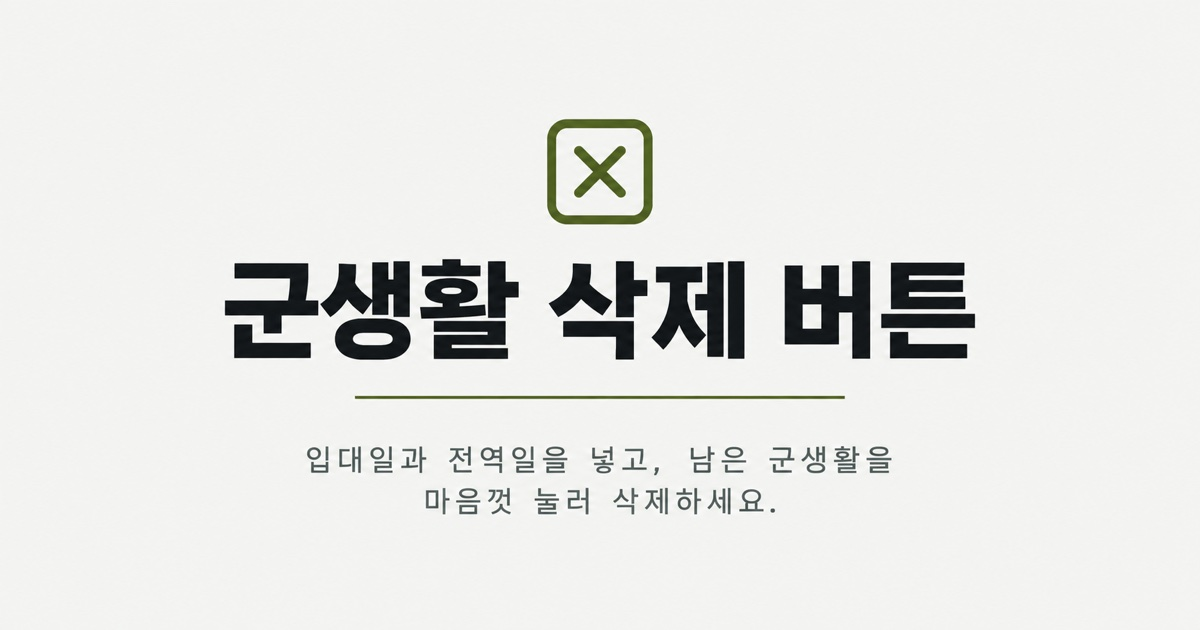
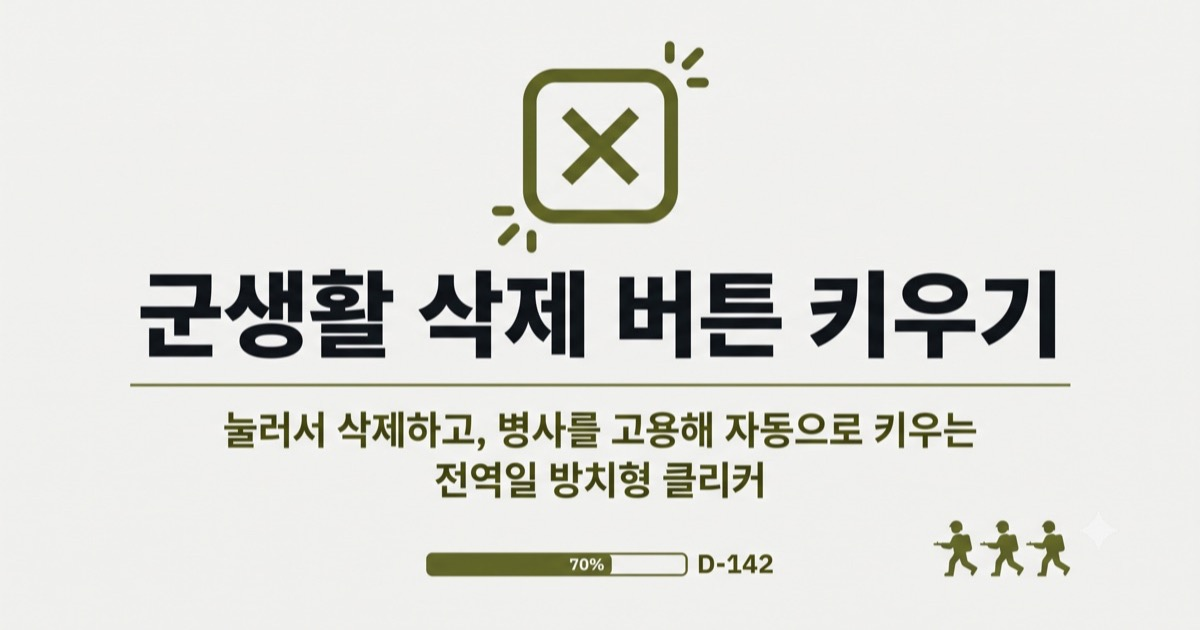
키우기로 컨셉 추가

diff --git a/index.html b/index.html
@@ -3,8 +3,8 @@
 <head>
 <meta charset="UTF-8">
 <meta name="viewport" content="width=device-width, initial-scale=1, interactive-widget=resizes-content">
-<title>군생활 삭제 버튼 — 전역일 계산기</title>
-<meta name="description" content="입대일만 넣으면 전역일 계산기로 D-day와 복무율을 자동 계산. 남은 군생활을 마음껏 눌러 삭제하세요.">
+<title>군생활 삭제 버튼 키우기 — 전역일 계산기 클리커 게임</title>
+<meta name="description" content="입대일만 넣으면 전역일 D-day와 복무율을 자동 계산. 남은 군생활을 눌러 삭제하고 병사를 고용해 자동으로 키우는 무료 방치형 클리커 게임.">
 <link rel="canonical" href="https://army-delete.vercel.app/">
 <meta name="theme-color" content="#4a5d23">
 <link rel="icon" type="image/svg+xml" href="/favicon.svg">
@@ -12,28 +12,33 @@
 <link rel="apple-touch-icon" sizes="180x180" href="/apple-touch-icon.png">
 <meta property="og:type" content="website">
 <meta property="og:locale" content="ko_KR">
-<meta property="og:title" content="군생활 삭제 버튼 — 전역일 계산기">
-<meta property="og:description" content="입대일만 넣으면 전역일 계산기로 D-day와 복무율을 자동 계산. 남은 군생활을 마음껏 눌러 삭제하세요.">
+<meta property="og:title" content="군생활 삭제 버튼 키우기 — 전역일 계산기 클리커 게임">
+<meta property="og:description" content="입대일만 넣으면 전역일 D-day와 복무율을 자동 계산. 남은 군생활을 눌러 삭제하고 병사를 고용해 자동으로 키우는 무료 방치형 클리커 게임.">
 <meta property="og:url" content="https://army-delete.vercel.app/">
 <meta property="og:image" content="https://army-delete.vercel.app/og-image.jpg">
 <meta property="og:image:width" content="1200">
 <meta property="og:image:height" content="630">
-<meta property="og:image:alt" content="군생활 삭제 버튼 — 입대일과 전역일을 넣고, 남은 군생활을 마음껏 눌러 삭제하세요.">
+<meta property="og:image:alt" content="군생활 삭제 버튼 키우기 — 남은 군생활을 눌러 삭제하는 방치형 클리커 게임">
 <meta name="twitter:card" content="summary_large_image">
-<meta name="twitter:title" content="군생활 삭제 버튼 — 전역일 계산기">
-<meta name="twitter:description" content="입대일만 넣으면 전역일 계산기로 D-day와 복무율을 자동 계산. 남은 군생활을 마음껏 눌러 삭제하세요.">
+<meta name="twitter:title" content="군생활 삭제 버튼 키우기 — 전역일 계산기 클리커 게임">
+<meta name="twitter:description" content="입대일만 넣으면 전역일 D-day와 복무율을 자동 계산. 남은 군생활을 눌러 삭제하고 병사를 고용해 자동으로 키우는 무료 방치형 클리커 게임.">
 <meta name="twitter:image" content="https://army-delete.vercel.app/og-image.jpg">
-<meta name="twitter:image:alt" content="군생활 삭제 버튼 — 입대일과 전역일을 넣고, 남은 군생활을 마음껏 눌러 삭제하세요.">
+<meta name="twitter:image:alt" content="군생활 삭제 버튼 키우기 — 남은 군생활을 눌러 삭제하는 방치형 클리커 게임">
 <script type="application/ld+json">
 {
   "@context": "https://schema.org",
-  "@type": "WebApplication",
-  "name": "군생활 삭제 버튼",
-  "alternateName": "전역일 계산기",
+  "@type": "VideoGame",
+  "name": "군생활 삭제 버튼 키우기",
+  "alternateName": ["군생활 삭제 버튼", "전역일 계산기"],
   "url": "https://army-delete.vercel.app/",
-  "description": "입대일만 넣으면 전역일 계산기로 D-day와 복무율을 자동 계산. 남은 군생활을 마음껏 눌러 삭제하세요.",
-  "applicationCategory": "LifestyleApplication",
+  "image": "https://army-delete.vercel.app/og-image.jpg",
+  "description": "입대일만 넣으면 전역일 D-day와 복무율을 자동 계산. 남은 군생활을 눌러 삭제하고 병사를 고용해 자동으로 키우는 무료 방치형 클리커 게임.",
+  "applicationCategory": "GameApplication",
+  "genre": ["클리커 게임", "방치형 게임", "시뮬레이션"],
+  "gamePlatform": ["Web browser", "Android", "iOS"],
+  "playMode": "SinglePlayer",
   "operatingSystem": "Any",
+  "browserRequirements": "JavaScript 필요",
   "inLanguage": "ko",
   "offers": { "@type": "Offer", "price": "0", "priceCurrency": "KRW" }
 }
@@ -1906,7 +1911,7 @@
 </aside>
 
 <div class="wrap">
-  <h1>군생활 삭제 버튼</h1>
+  <h1>군생활 삭제 버튼 키우기</h1>
   <p class="sub">아무것도 실제로 삭제되지 않습니다. 그냥 누르세요.</p>
 
   <div class="setup">

diff --git a/privacy.html b/privacy.html
@@ -3,8 +3,8 @@
 <head>
 <meta charset="UTF-8">
 <meta name="viewport" content="width=device-width, initial-scale=1">
-<title>개인정보처리방침 · 군생활 삭제 버튼</title>
-<meta name="description" content="군생활 삭제 버튼 서비스의 개인정보처리방침. 수집 항목, 분석 도구(PostHog), 광고(AdSense) 관련 고지.">
+<title>개인정보처리방침 · 군생활 삭제 버튼 키우기</title>
+<meta name="description" content="군생활 삭제 버튼 키우기 서비스의 개인정보처리방침. 수집 항목, 분석 도구(PostHog), 광고(AdSense) 관련 고지.">
 <link rel="canonical" href="https://army-delete.vercel.app/privacy">
 <meta name="theme-color" content="#4a5d23">
 <link rel="icon" type="image/svg+xml" href="/favicon.svg">
@@ -63,7 +63,7 @@
 <main>
   <div class="mark">Privacy</div>
   <h1>개인정보처리방침</h1>
-  <p class="updated">최종 수정 2026-09-07 · 군생활 삭제 버튼 (army-delete.vercel.app)</p>
+  <p class="updated">최종 수정 2026-09-07 · 군생활 삭제 버튼 키우기 (army-delete.vercel.app)</p>
 
   <p>비로그인 플레이의 입력값·지갑·아이템·휴가 영수증은 기본적으로 <strong>여러분의 브라우저 안에만</strong> 남습니다. Google 계정으로 로그인하면 계정 저장과 휴가 영수증 동기화가 켜져 일부 기록이 Supabase에 저장됩니다.</p>
   <p>로그인하면 기기를 바꾸거나 브라우저 데이터를 지워도 지갑·아이템·휴가 구매 기록을 이어 쓸 수 있습니다. 자세한 범위는 아래 <a href="#leaderboard">리더보드</a>와 휴가 항목에 적습니다.</p>

diff --git a/admin.html b/admin.html
@@ -4,7 +4,7 @@
 <meta charset="UTF-8">
 <meta name="viewport" content="width=device-width, initial-scale=1">
 <meta name="robots" content="noindex,nofollow">
-<title>링크 생성기 · 군생활 삭제 버튼</title>
+<title>링크 생성기 · 군생활 삭제 버튼 키우기</title>
 <link rel="icon" type="image/svg+xml" href="/favicon.svg">
 <link rel="icon" type="image/png" sizes="32x32" href="/favicon-32.png">
 <link rel="apple-touch-icon" sizes="180x180" href="/apple-touch-icon.png">
